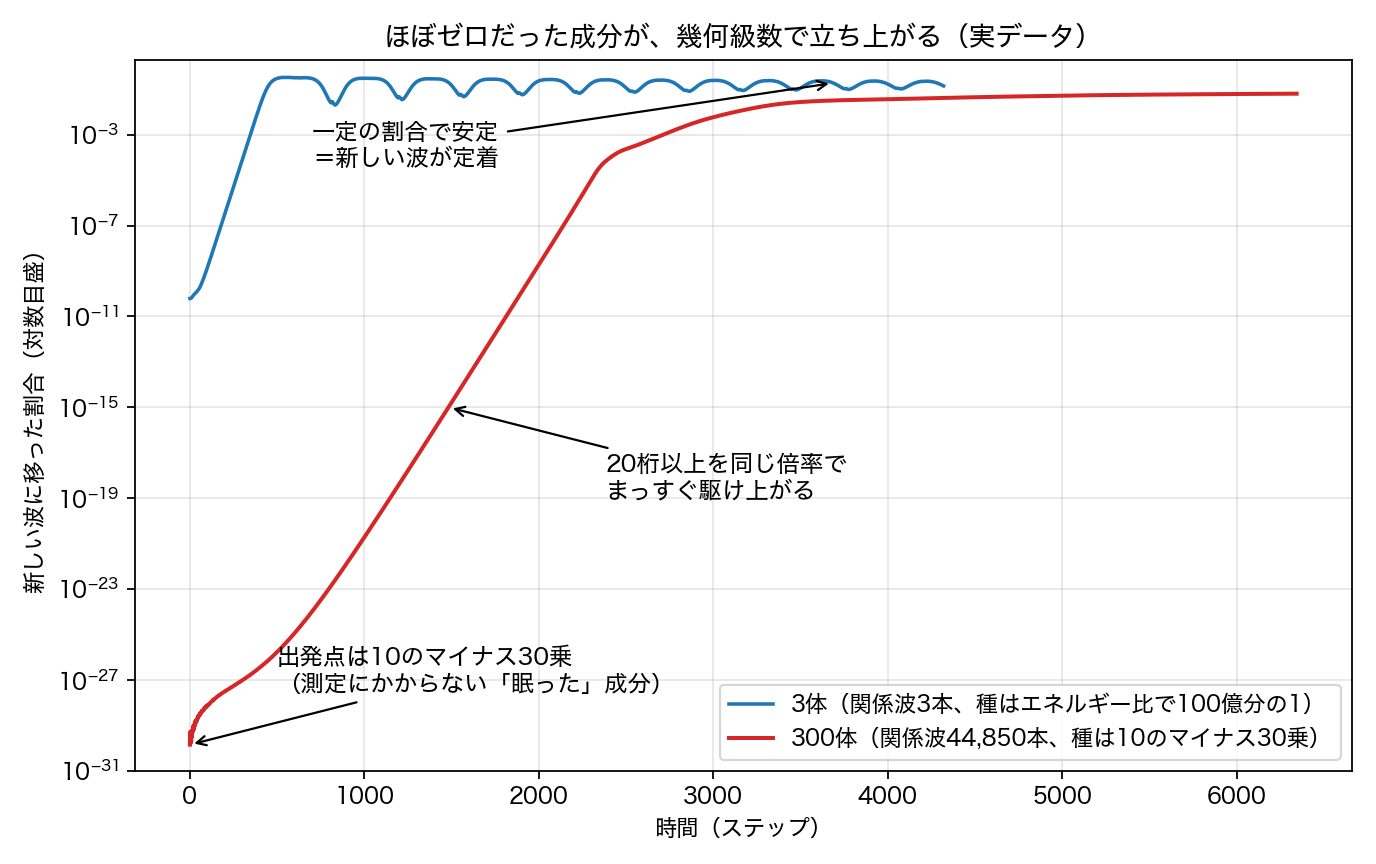
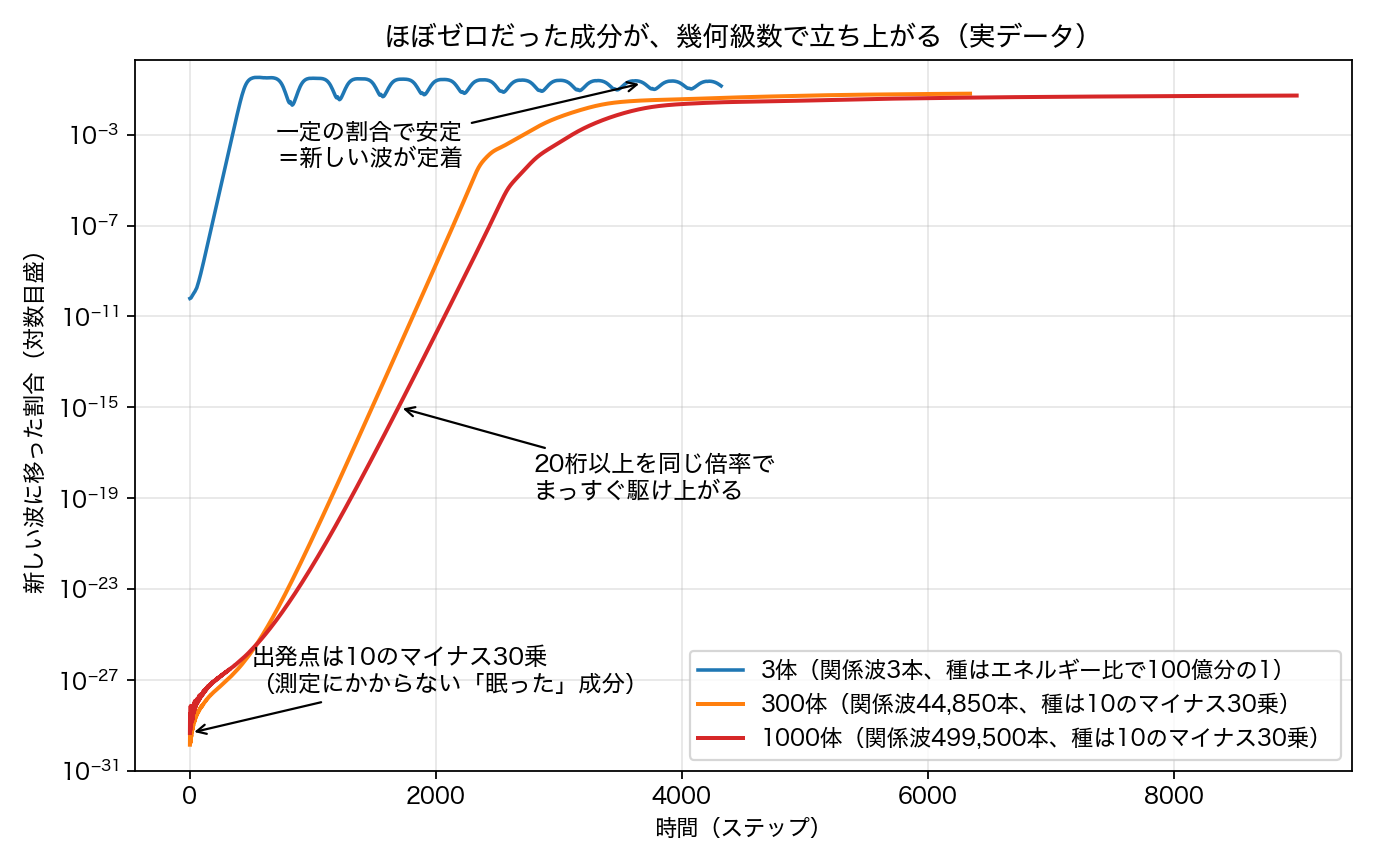
実験O6にN=1000（関係波499,500本）を追加、論文・note図表を3曲線化
N=1000走行: 種f₀=4.6e-30→0.053、率0.0211/step（109ステップ/桁）、
閾値交差τ=7926、閉鎖保存≤2.7e-14。親収束は到達可能水準tol=1e-11に調整
（残差4.5e-12、測定床≈2e-23、22桁の指数区間）。

第5論文: §8.8表を3列化（N=40/300/1000）、要旨・§7設計・読み・留保を更新。
率系列 3.8→3.6→2.5→2.1e-2/step の単調減少と大Nでの鈍化を記載。
論文図・note図3をN=40/300/1000系（noteは3体/300体/1000体）に差し替え、
note本文に「三百体と千体の曲線はほとんど重なる」を追記。

diff --git a/次元の生成構造/note記事案_次元と分裂と計数_v1/make_note_figures_v1.py b/次元の生成構造/note記事案_次元と分裂と計数_v1/make_note_figures_v1.py
@@ -104,24 +104,24 @@ def fig2():
 
 
 # ---------------------------------------------------------------- 図3
-def _load_largeN_curve():
-    """largeN_splitting_result_v1 から最大Nの f 曲線を読む。"""
+def _load_largeN_curves(wanted=(300, 1000)):
+    """largeN_splitting_result_v1 から指定Nの f 曲線を読む（存在するもののみ、N昇順）。"""
     import glob
     d = os.path.join(EXP, "largeN_splitting_result_v1")
-    best = None
+    found = {}
     for path in glob.glob(os.path.join(d, "fcurve_N*.csv")):
         n = int(os.path.basename(path).split("_")[1][1:])
-        if best is None or n > best[0]:
-            best = (n, path)
-    if best is None:
-        return None, None, None
-    n, path = best
-    taus, fs = [], []
-    with open(path) as fh:
-        for row in csv.DictReader(fh):
-            taus.append(float(row["tau"]))
-            fs.append(float(row["f"]))
-    return n, np.array(taus), np.array(fs)
+        if n in wanted:
+            found[n] = path
+    out = []
+    for n in sorted(found):
+        taus, fs = [], []
+        with open(found[n]) as fh:
+            for row in csv.DictReader(fh):
+                taus.append(float(row["tau"]))
+                fs.append(float(row["f"]))
+        out.append((n, np.array(taus), np.array(fs)))
+    return out
 
 
 def fig3():
@@ -135,15 +135,16 @@ def fig3():
     taus3 = np.array(taus3)
     f3 = np.array(f3)
 
-    # 大Nの実データ
-    n_big, taus_b, f_b = _load_largeN_curve()
-    m_big = n_big * (n_big - 1) // 2 if n_big else 0
+    # 大Nの実データ（300体・1000体）
+    curves = _load_largeN_curves()
 
     fig, ax = plt.subplots(figsize=(8.6, 5.4))
     ax.semilogy(taus3, f3, color=C_BLUE, lw=1.6,
                 label="3体（関係波3本、種はエネルギー比で100億分の1）")
-    if n_big:
-        ax.semilogy(taus_b, f_b, color=C_RED, lw=1.8,
+    big_colors = {300: C_ORANGE, 1000: C_RED}
+    for n_big, taus_b, f_b in curves:
+        m_big = n_big * (n_big - 1) // 2
+        ax.semilogy(taus_b, f_b, color=big_colors.get(n_big, C_GREEN), lw=1.8,
                     label=f"{n_big}体（関係波{m_big:,}本、種は10のマイナス30乗）")
     ax.set_xlabel("時間（ステップ）")
     ax.set_ylabel("新しい波に移った割合（対数目盛）")
@@ -151,10 +152,11 @@ def fig3():
     ax.grid(alpha=0.3, which="both")
     ax.legend(loc="lower right", fontsize=10)
     ax.set_ylim(1e-31, 2.0)
-    if n_big:
+    if curves:
+        n_big, taus_b, f_b = curves[-1]
         i_mid = int(np.argmin(np.abs(f_b - 1e-15)))
         ax.annotate("20桁以上を同じ倍率で\nまっすぐ駆け上がる",
-                    xy=(taus_b[i_mid], f_b[i_mid]), xytext=(taus_b[i_mid] + 900, 1e-19),
+                    xy=(taus_b[i_mid], f_b[i_mid]), xytext=(taus_b[i_mid] + 1100, 1e-19),
                     arrowprops=dict(arrowstyle="->", color="k"), fontsize=10.5)
         ax.annotate("出発点は10のマイナス30乗\n（測定にかからない「眠った」成分）",
                     xy=(taus_b[0], f_b[0]), xytext=(500, 3e-28),

diff --git a/次元の生成構造/note記事案_次元と分裂と計数_v1/note_article_dimension_splitting_counting_ja.md b/次元の生成構造/note記事案_次元と分裂と計数_v1/note_article_dimension_splitting_counting_ja.md
@@ -60,7 +60,7 @@
 
 眠っていた成分は、最初はエネルギー比で百億分の一以下という、測定にかからない大きさです。それが毎ステップ同じ倍率で増幅され、桁をまっすぐ駆け上がり、全体の一割を超える大きさに定着しました。新しい波の誕生です。
 
-これは小さな系の特殊事情ではありません。体の数を三百（関係波四万四千八百五十本）に増やし、種をエネルギー比で十のマイナス三十乗まで下げても、同じ形の曲線が現れました。二十桁以上を、一定の倍率で、まっすぐ駆け上がります。
+これは小さな系の特殊事情ではありません。体の数を三百（関係波四万四千八百五十本）、さらに千（関係波四十九万九千五百本）に増やし、種をエネルギー比で十のマイナス三十乗まで下げても、同じ形の曲線が現れました。二十桁以上を、一定の倍率で、まっすぐ駆け上がります。三百体と千体の曲線はほとんど重なっており、増幅の速さは体の数を増やしても、ほぼ変わらなくなっています。
 
 【図3挿入位置】ほぼゼロだった成分が、幾何級数で立ち上がる
 
